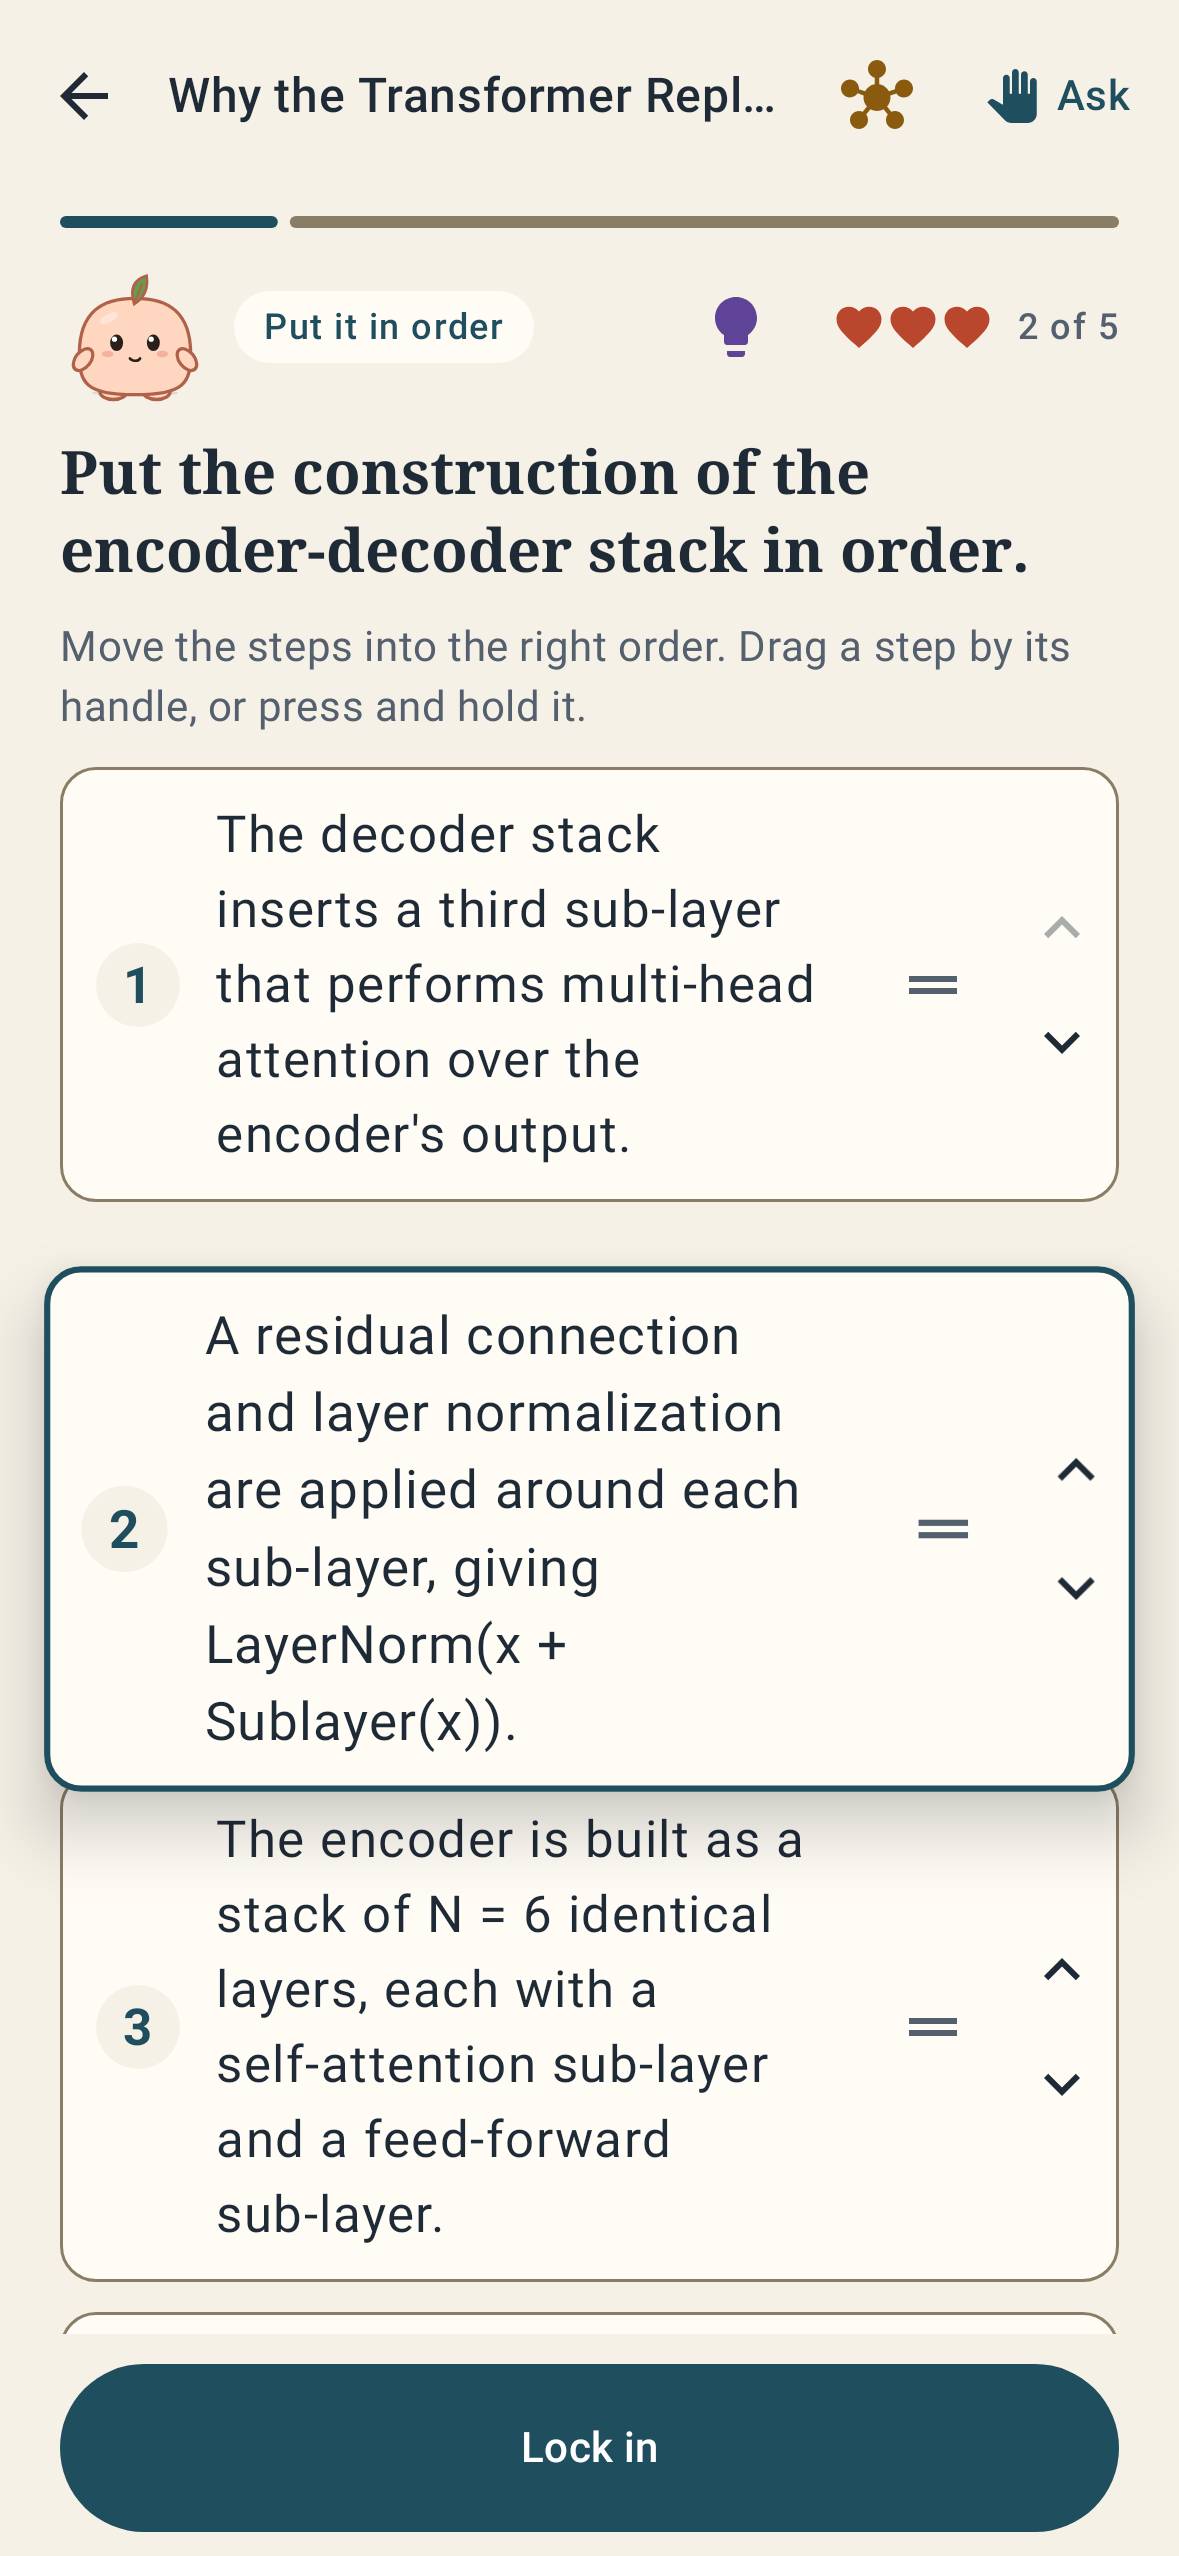
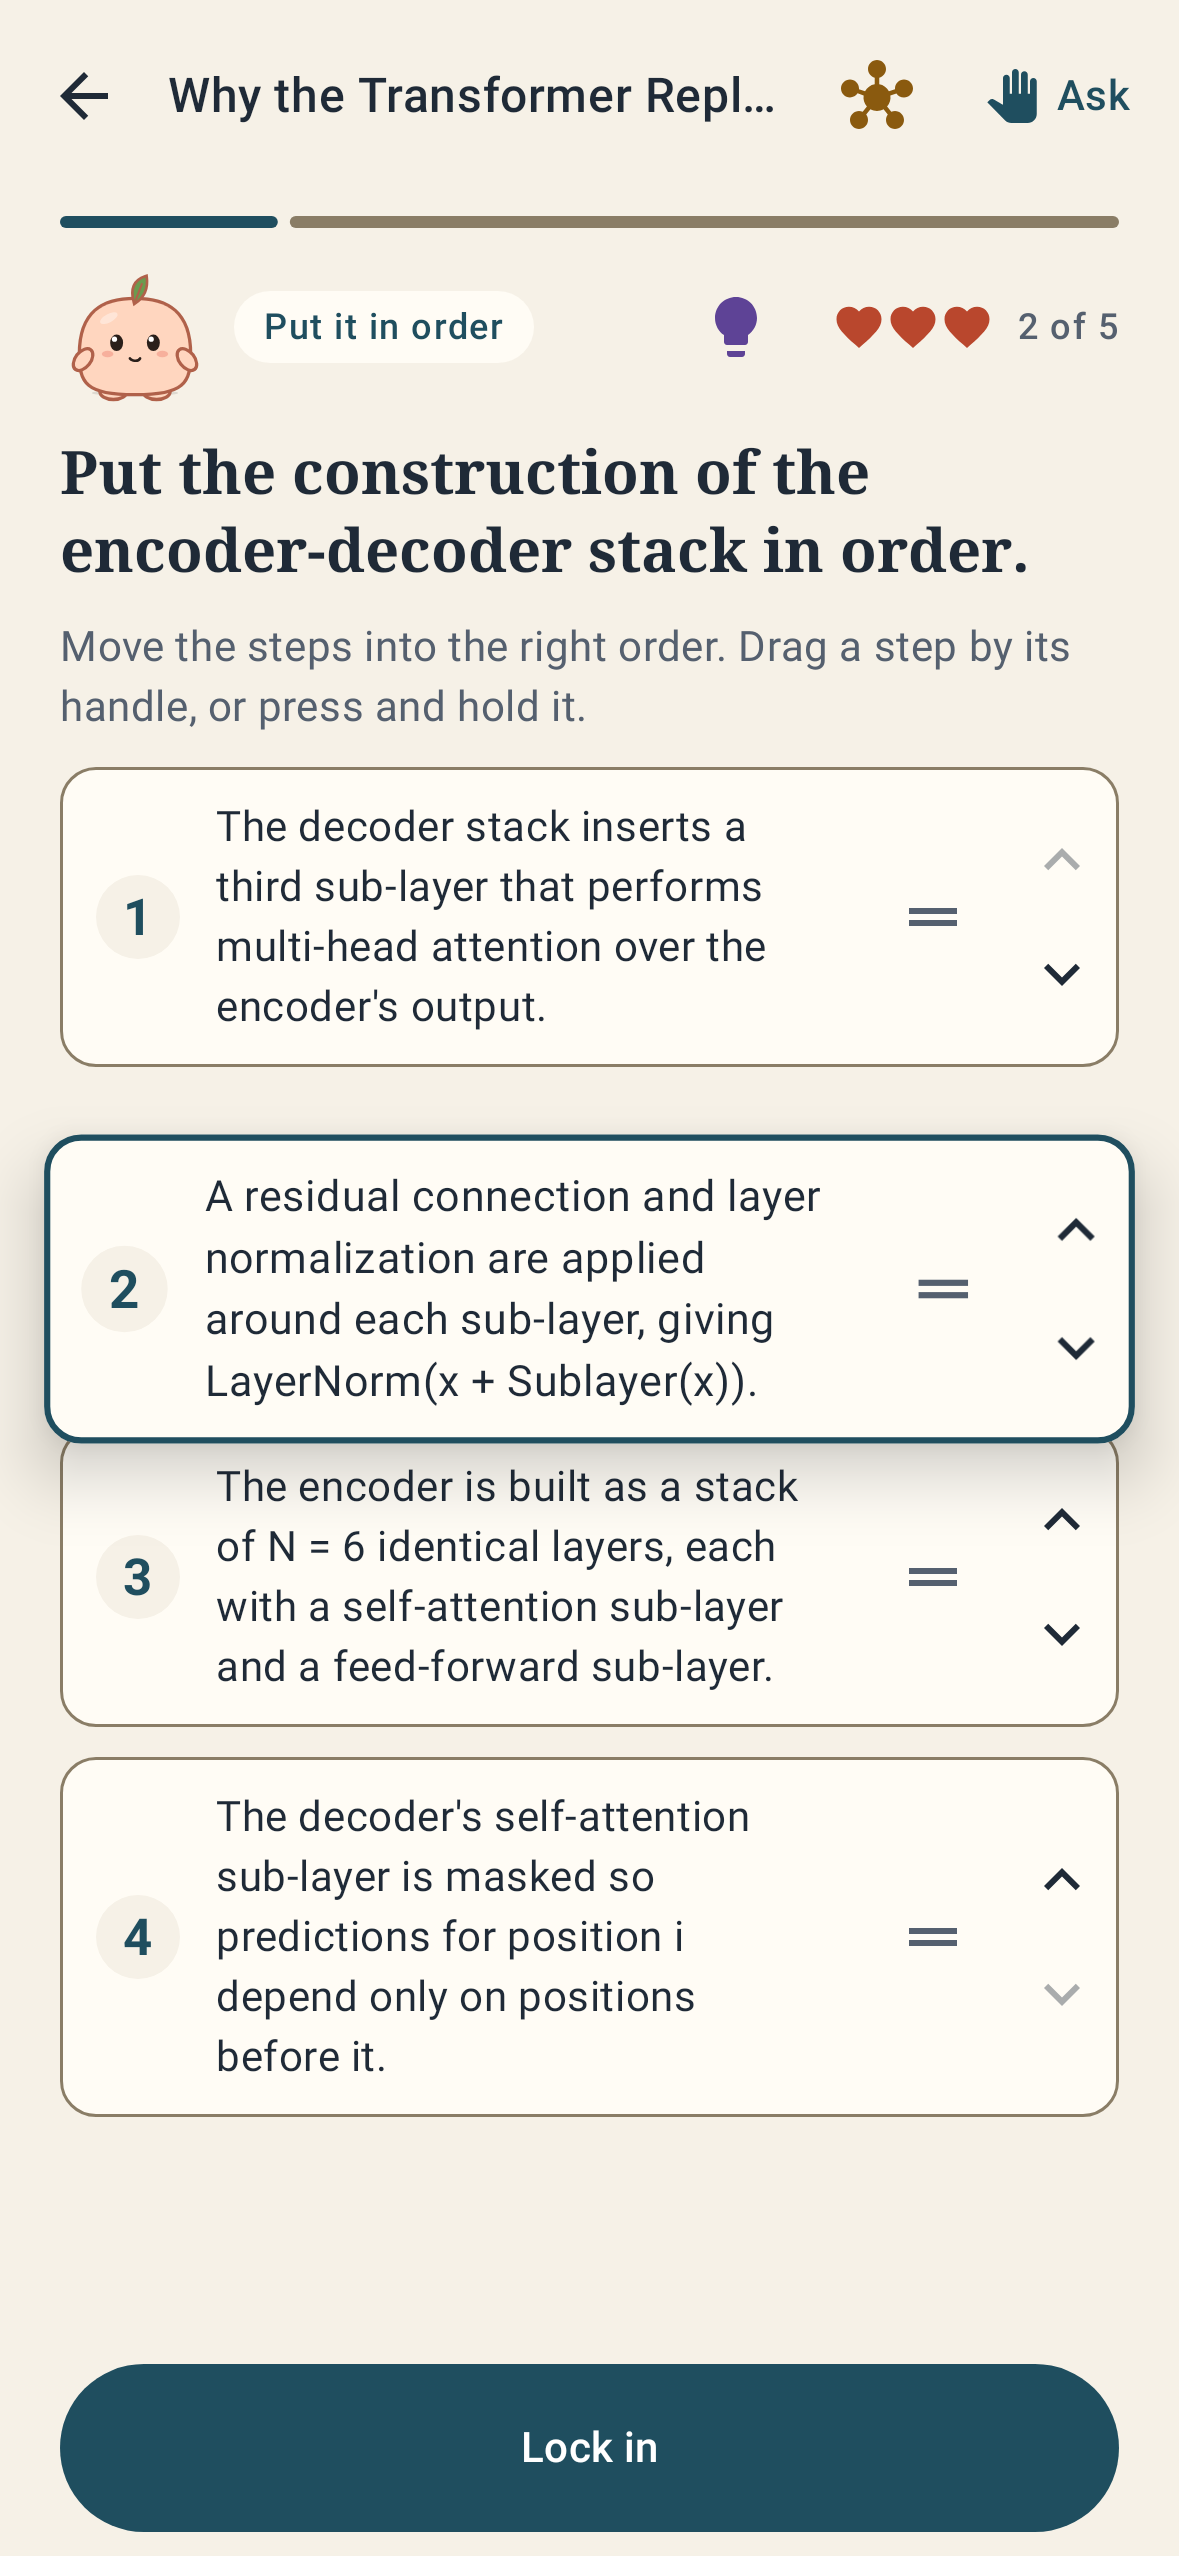
Order: long steps use the smaller body size so rows stay draggable

diff --git a/android/app/src/main/kotlin/com/anything2game/app/ui/play/mechanics/OrderRenderer.kt b/android/app/src/main/kotlin/com/anything2game/app/ui/play/mechanics/OrderRenderer.kt
@@ -190,7 +190,8 @@ private fun StepRow(id: String, index: Int, count: Int, text: String, reorder: R
                         if (index < count - 1) CustomAccessibilityAction(down) { reorder.nudge(id, 1); true } else null,
                     )
                 },
-                color = skin.ink, style = MaterialTheme.typography.bodyLarge,
+                // Long steps (generated text can run to 30+ words) use the smaller body size so a row stays draggable.
+                color = skin.ink, style = if (text.length > 90) MaterialTheme.typography.bodyMedium else MaterialTheme.typography.bodyLarge,
             )
             // Press and drag: takes the touch at once, so it never fights the list's own scrolling.
             Box(
